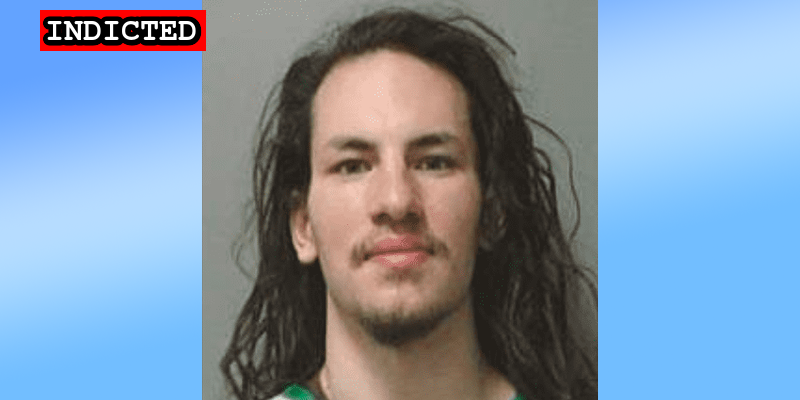
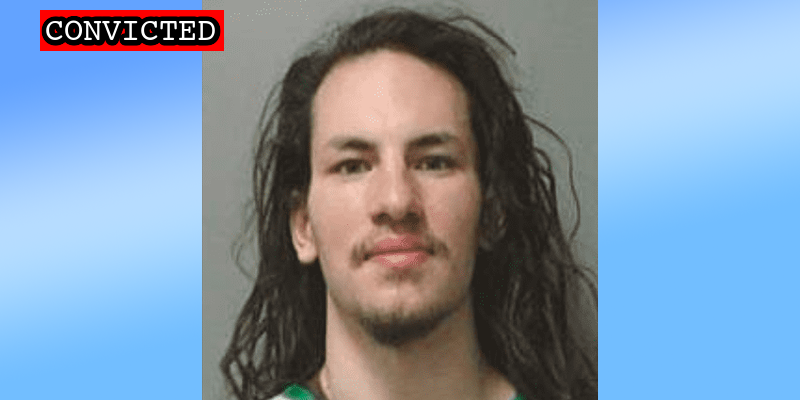
Sandoval conviction

Changed region(s): [[0.0312, 0.0, 0.2812, 0.15]]

diff --git a/docs/_suspects/salvador-sandoval.md b/docs/_suspects/salvador-sandoval.md
@@ -4,14 +4,14 @@ lastName: Sandoval
 hashtag: SalvadorSandoval
 aka:
 residence: Iowa
-status: Indicted
+status: Convicted
 date: 2021-02-19
 charged: 2021-02-19
 indicted: 2021-03-09
-convicted: 
+convicted: 2022-12-16
 acquitted:
-sentenced: 
-dismissed: 
+sentenced:
+dismissed:
 deceased:
 plea_hearing:
 trial_date: 2022-12-14
@@ -32,7 +32,7 @@ raid:
 perpwalk:
 quote:
 title: Salvador Sandoval charged on February 19, 2021
-description: Click for latest case details. Suspects innocent until proven guilty.
+description: Convicted on December 16, 2022. Click for latest case details.
 author: seditiontrack
 layout: suspect
 published: true
@@ -41,11 +41,61 @@ caseName: USA v. SANDOVAL
 judge: Thomas F. Hogan
 videos:
 charges:
+  - code: 18 USC § 231(a)(3)
+    title: Obstruction of Law Enforcement During Civil Disorder
+    url: https://www.law.cornell.edu/uscode/text/18/231
+    felony: true
+  - code: 18 USC § 111(a)(1)
+    title: Assaulting, resisting, or impeding certain officers or employees
+    url: https://www.law.cornell.edu/uscode/text/18/111
+    felony: true
+  - code: 18 USC § 111(a)(1)
+    title: Assaulting, resisting, or impeding certain officers or employees
+    url: https://www.law.cornell.edu/uscode/text/18/111
+    felony: true
+  - code: 18 USC § 111(a)(1)
+    title: Assaulting, resisting, or impeding certain officers or employees
+    url: https://www.law.cornell.edu/uscode/text/18/111
+    felony: true
+  - code: 18 USC § 111(a)(1)
+    title: Assaulting, resisting, or impeding certain officers or employees
+    url: https://www.law.cornell.edu/uscode/text/18/111
+    felony: true
+  - code: 18 USC § 1512(c)(2),2
+    title: Obstruction of an Official Proceeding (Aiding and Abetting)
+    url: https://www.law.cornell.edu/uscode/text/18/1512
+    felony: true
+  - code: 18 USC § 1752(a)(1)
+    title: Entering a restricted building or grounds
+    url: https://www.law.cornell.edu/uscode/text/18/1752
+    felony: false
+  - code: 18 USC § 1752(a)(2)
+    title: Disorderly and disruptive conduct in a restricted building or grounds
+    url: https://www.law.cornell.edu/uscode/text/18/1752
+    felony: false
+  - code: 18 USC § 1752(a)(4)
+    title: Engaging in physitical violence in a restricted building
+    url: https://www.law.cornell.edu/uscode/text/18/1752
+    felony: false
+  - code: 40 USC § 5104(e)(2)(D)
+    title: Disorderly Conduct in a Capitol Building
+    url: https://www.law.cornell.edu/uscode/text/40/5104
+    felony: false
+  - code: 40 USC § 5104(e)(2)(G)
+    title: Parading, demonstrating or picketing in a Capitol building
+    url: https://www.law.cornell.edu/uscode/text/40/5104
+    felony: false
+  - code: 40 USC § 5104(e)(2)(F)
+    title: Act of physical violence on Capitol grounds
+    url: https://www.law.cornell.edu/uscode/text/40/5104
+    felony: false
 sentence:
 ---
+
 - [News Report](https://www.desmoinesregister.com/story/news/crime-and-courts/2021/02/19/capitol-riot-arrests-iowa-mother-and-son-face-charges-jan-6-riot-deborah-sandoval-salvador-sandoval/4515346001/)
 - [Statement of Facts](https://www.justice.gov/usao-dc/case-multi-defendant/file/1379251/download)
 - [Indictment](https://www.justice.gov/usao-dc/case-multi-defendant/file/1460081/download)
 - [Defense Motion to Sever](https://extremism.gwu.edu/sites/g/files/zaxdzs2191/f/Deborah%20Sandoval%20Defense%20Motion%20to%20Sever.pdf)
 - [DOJ Press Release](https://extremism.gwu.edu/sites/g/files/zaxdzs2191/f/Deborah%20Sandoval%20and%20Salvador%20Sandoval%20Jr%20Government%20Opposition%20to%20Motion%20for%20Severance.pdf)
 - [Government Opposition to Defense Motion for Severance](https://extremism.gwu.edu/sites/g/files/zaxdzs2191/f/Deborah%20Sandoval%20and%20Salvador%20Sandoval%20Jr%20Government%20Opposition%20to%20Motion%20for%20Severance.pdf)
+- [DOJ Press Release (Conviction)](https://www.justice.gov/usao-dc/pr/iowa-man-found-guilty-all-counts-including-felony-charges-related-capitol-breach)
